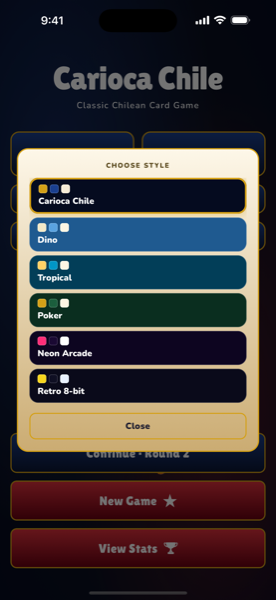
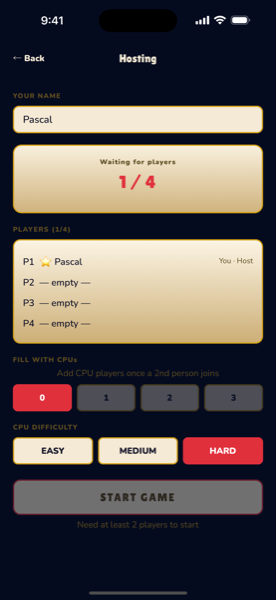
cariocachile: refresh gallery to current v1.4 build (home + multiplayer flow)
Replaces the v1.0.0-era gallery shots with fresh iPhone 16 Pro Max
captures from the current build:
- sshot-1: home screen (new Achievements/Options layout)
- sshot-2: multiplayer menu (play online / host / join)
- sshot-3: public game lobby (room setup)
(sshot-4 = guest lobby, refreshed earlier). Alt text updated in all 4
locales. Still staged for launch — committed to git, NOT deployed to Pi.

diff --git a/cariocachile/es.html b/cariocachile/es.html
@@ -110,8 +110,8 @@
       <h2>Míralo en acción</h2>
       <div class="gallery">
         <img src="assets/sshot-1.png" alt="Pantalla de inicio" />
-        <img src="assets/sshot-2.png" alt="Partida con cartas en mano" />
-        <img src="assets/sshot-3.png" alt="Selector de temas" />
+        <img src="assets/sshot-2.png" alt="Multijugador — juega en línea o crea" />
+        <img src="assets/sshot-3.png" alt="Sala de partida pública" />
         <img src="assets/sshot-4.png" alt="Sala multijugador" />
       </div>
     </section>

diff --git a/cariocachile/fr.html b/cariocachile/fr.html
@@ -111,8 +111,8 @@
       <h2>Voyez-le en action</h2>
       <div class="gallery">
         <img src="assets/sshot-1.png" alt="Écran d'accueil" />
-        <img src="assets/sshot-2.png" alt="Partie en cours avec cartes en main" />
-        <img src="assets/sshot-3.png" alt="Sélecteur de thèmes" />
+        <img src="assets/sshot-2.png" alt="Multijoueur — jouer en ligne ou héberger" />
+        <img src="assets/sshot-3.png" alt="Salon de partie publique" />
         <img src="assets/sshot-4.png" alt="Salon multijoueur" />
       </div>
     </section>

diff --git a/cariocachile/index.html b/cariocachile/index.html
@@ -241,8 +241,8 @@
       <h2>See it in action</h2>
       <div class="gallery">
         <img src="assets/sshot-1.png" alt="Home screen" />
-        <img src="assets/sshot-2.png" alt="Mid-game with cards in hand" />
-        <img src="assets/sshot-3.png" alt="Theme picker" />
+        <img src="assets/sshot-2.png" alt="Multiplayer — play online or host" />
+        <img src="assets/sshot-3.png" alt="Public game lobby" />
         <img src="assets/sshot-4.png" alt="Multiplayer lobby" />
       </div>
     </section>

diff --git a/cariocachile/pt.html b/cariocachile/pt.html
@@ -110,8 +110,8 @@
       <h2>Veja em ação</h2>
       <div class="gallery">
         <img src="assets/sshot-1.png" alt="Tela inicial" />
-        <img src="assets/sshot-2.png" alt="Partida em andamento" />
-        <img src="assets/sshot-3.png" alt="Seletor de temas" />
+        <img src="assets/sshot-2.png" alt="Multijogador — jogar online ou criar" />
+        <img src="assets/sshot-3.png" alt="Sala de jogo público" />
         <img src="assets/sshot-4.png" alt="Sala multijogador" />
       </div>
     </section>